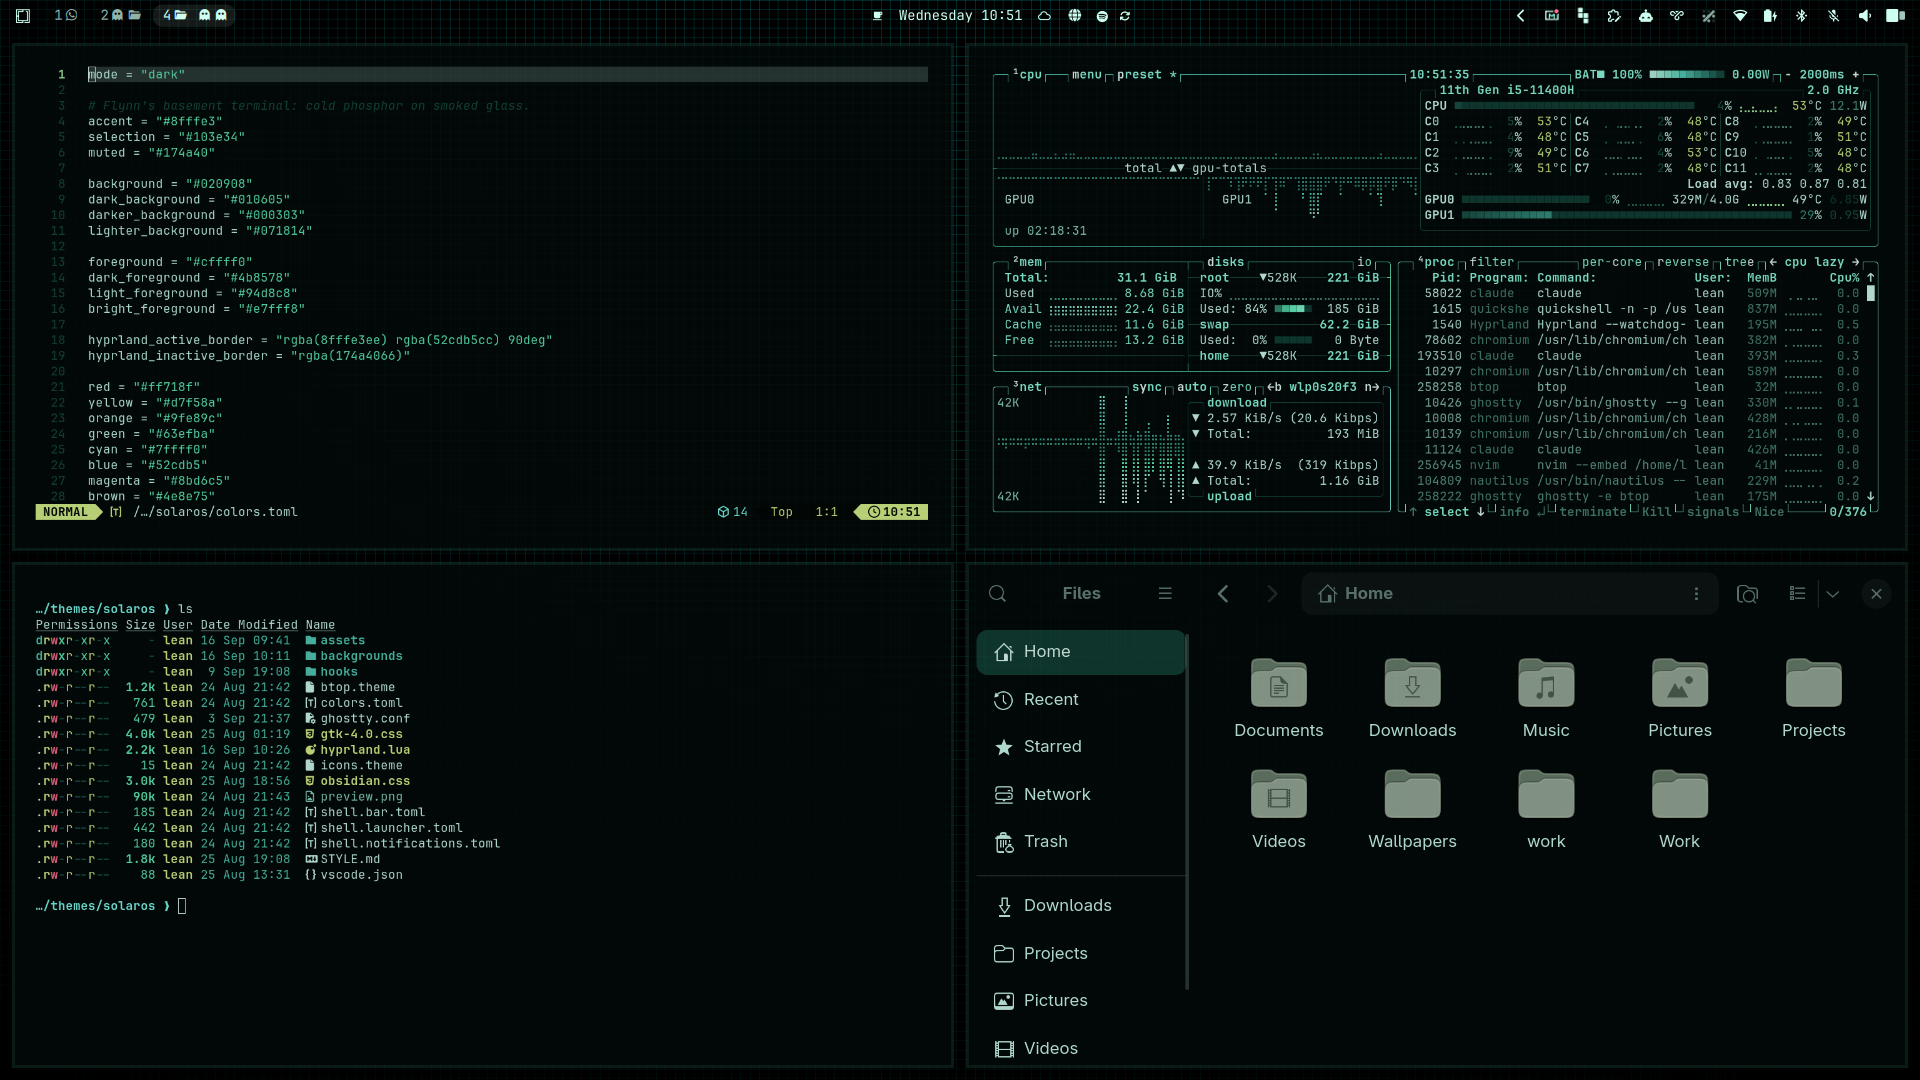
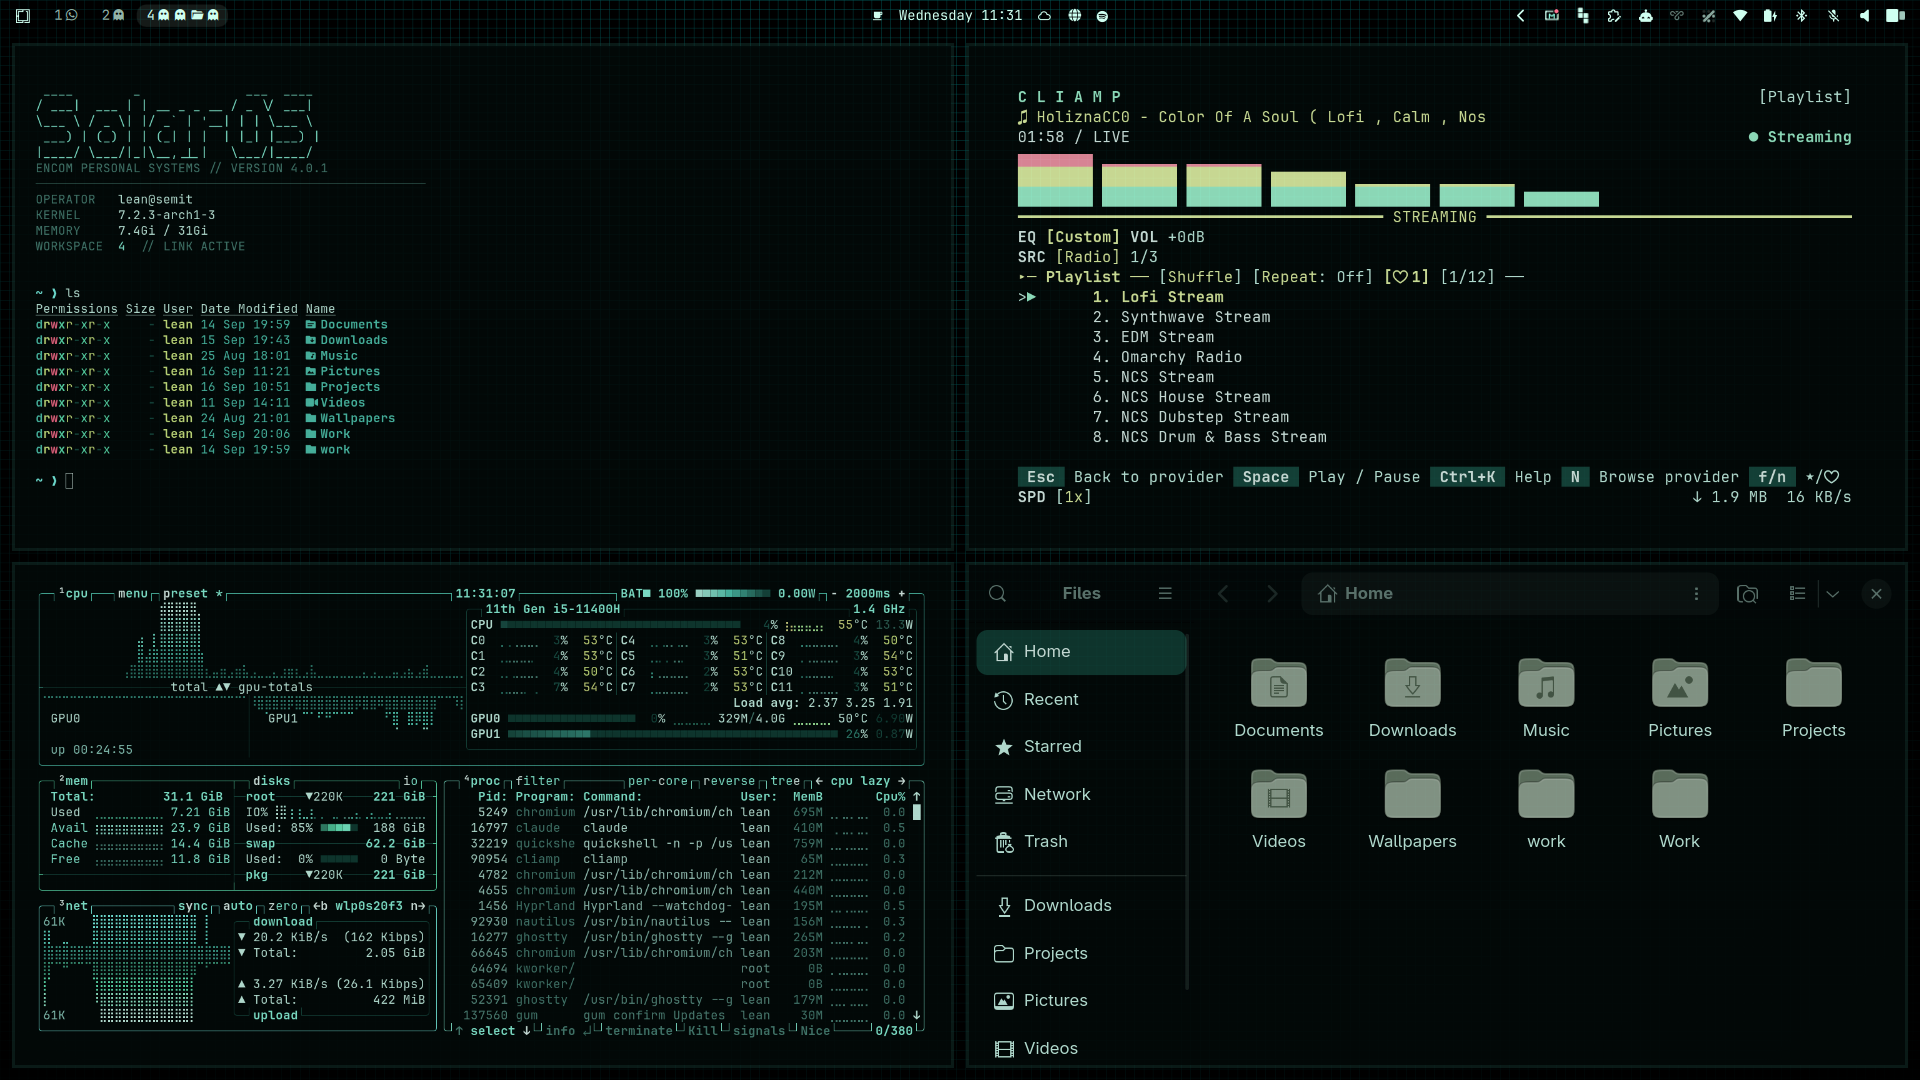
New preview, previous one kept as preview-alt
The banner, the player, the monitor and the file manager read better as a first
impression than four text panes. The editor shot stays as the second look.

diff --git a/README.md b/README.md
@@ -5,6 +5,13 @@ smoked glass — Flynn's basement, not a neon arcade.
 
 ![SolarOS](preview.png)
 
+<details>
+<summary>A second look — editor, system monitor, terminal, files</summary>
+
+![SolarOS](preview-alt.png)
+
+</details>
+
 SolarOS is the operating system on Kevin Flynn's server in *Tron: Legacy* —
 the prompt reads `SolarOS 4.0.1` when Sam wipes the dust off the terminal. This
 theme is an unpaid fan project built around that look, released free under MIT.
